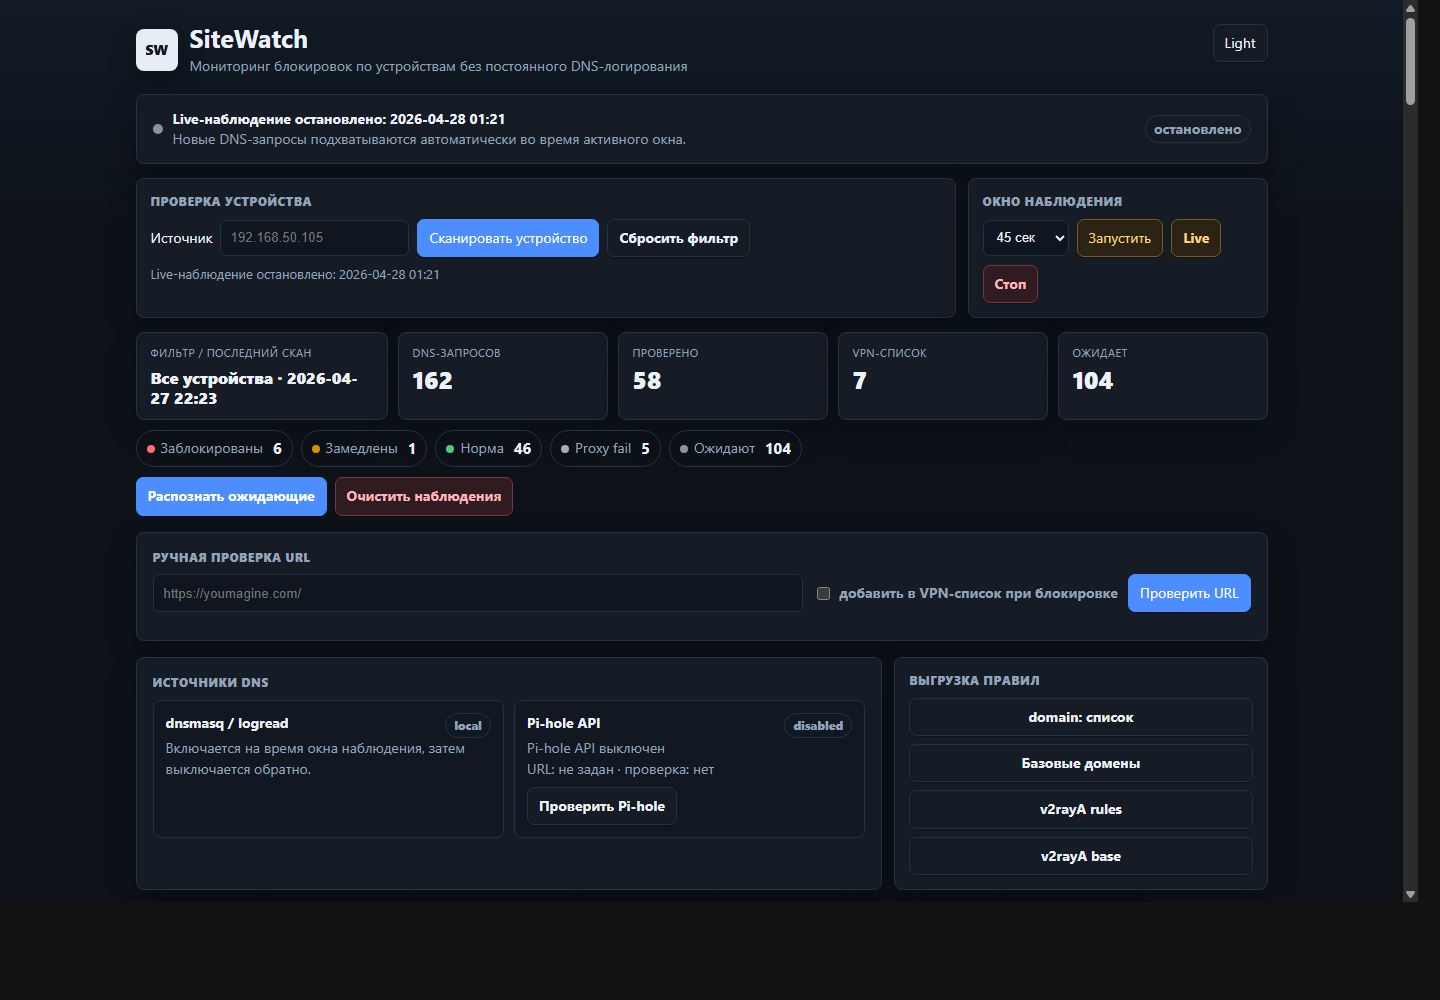
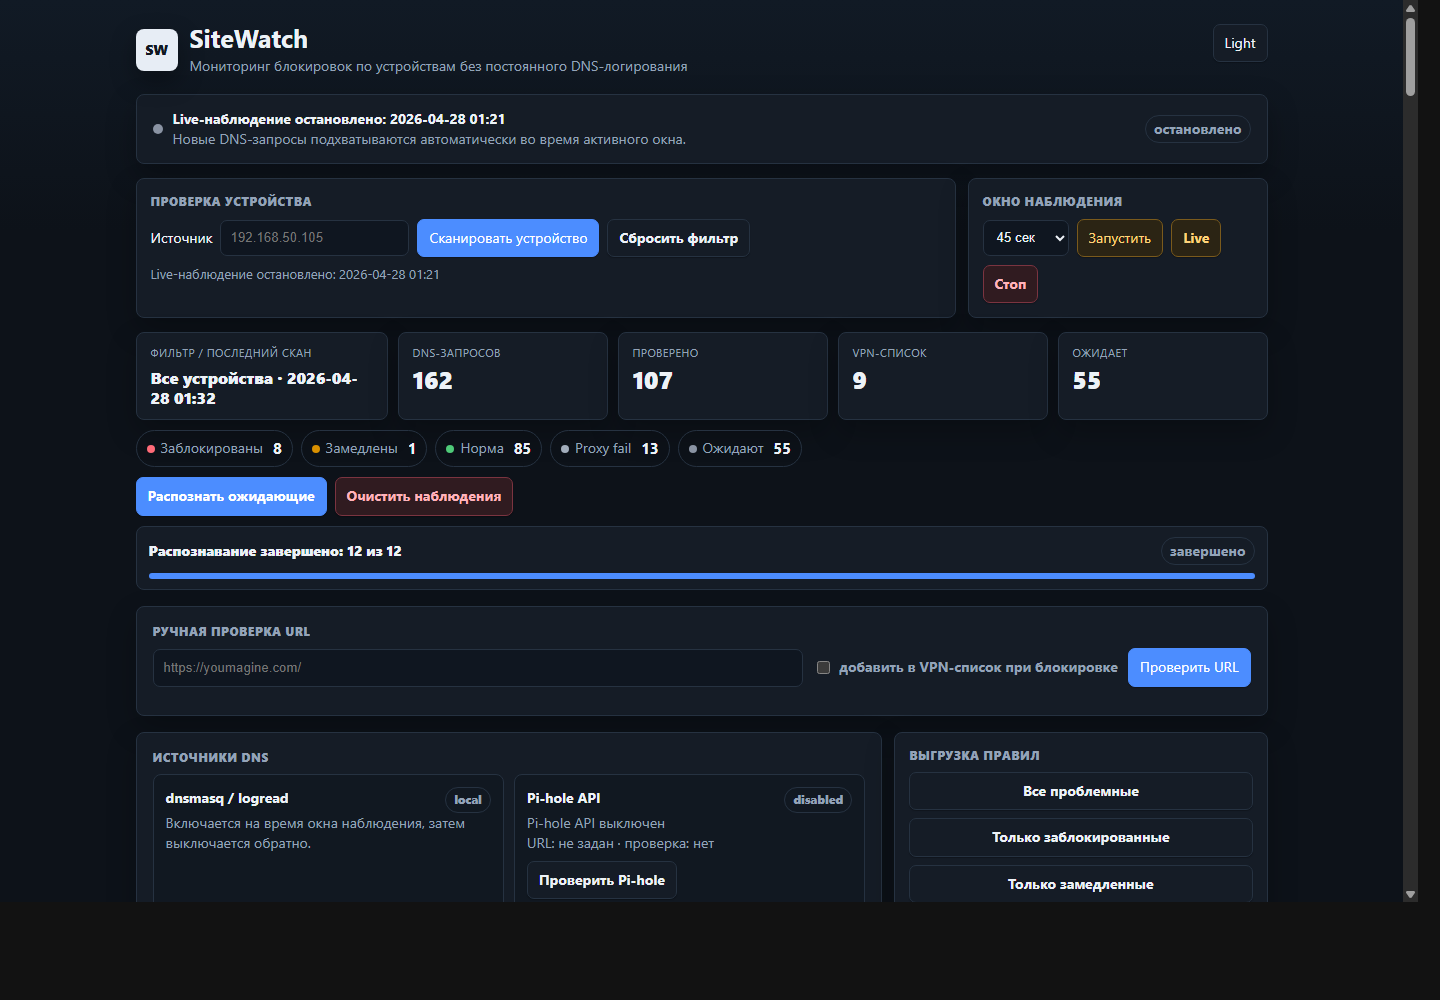
Show scan progress and DPI results

diff --git a/cmd/sitewatch/main.go b/cmd/sitewatch/main.go
@@ -26,6 +26,7 @@ type config struct {
 	Results         string
 	ProxyOut        string
 	Lock            string
+	ScanStatus      string
 	Proxy           string
 	Batch           int
 	Timeout         time.Duration
@@ -100,6 +101,7 @@ type resultEntry struct {
 	ProxyCode  string
 	ProxyTime  string
 	Scanned    int64
+	DPIStatus  string
 }
 
 func main() {
@@ -146,6 +148,7 @@ func loadConfig() config {
 		Results:         getStr(values, "SITEWATCH_RESULTS", "/etc/sitewatch/results.tsv"),
 		ProxyOut:        getStr(values, "SITEWATCH_PROXY_OUT", "/etc/sitewatch/proxy-domains.txt"),
 		Lock:            getStr(values, "SITEWATCH_LOCK", "/tmp/sitewatch-scan.lock"),
+		ScanStatus:      getStr(values, "SITEWATCH_SCAN_STATUS", "/tmp/sitewatch-scan.status"),
 		Proxy:           getStr(values, "SITEWATCH_PROXY", "socks5h://127.0.0.1:20170"),
 		Batch:           getInt(values, "SITEWATCH_BATCH", 12),
 		Timeout:         time.Duration(getInt(values, "SITEWATCH_TIMEOUT", 7)) * time.Second,
@@ -306,7 +309,14 @@ func cmdScan(cfg config) error {
 		domains = domains[:cfg.Batch]
 	}
 
-	for _, item := range domains {
+	writeScanStatus(cfg, "running", now, len(domains), 0, "")
+	if len(domains) == 0 {
+		writeScanStatus(cfg, "done", now, 0, 0, "")
+		return nil
+	}
+
+	for idx, item := range domains {
+		writeScanStatus(cfg, "running", now, len(domains), idx, item.Domain)
 		result, err := checkURL(cfg, "https://"+item.Domain+"/", false)
 		if err != nil {
 			continue
@@ -321,6 +331,7 @@ func cmdScan(cfg config) error {
 			ProxyCode:  result.Proxy.Code,
 			ProxyTime:  fmt.Sprintf("%.6f", result.Proxy.Time),
 			Scanned:    now,
+			DPIStatus:  dpiSummary(result.DPI),
 		}
 		maybeAddProxyDomain(cfg, result.Domain, result.Status)
 
@@ -339,14 +350,50 @@ func cmdScan(cfg config) error {
 						ProxyCode:  baseResult.Proxy.Code,
 						ProxyTime:  fmt.Sprintf("%.6f", baseResult.Proxy.Time),
 						Scanned:    now,
+						DPIStatus:  dpiSummary(baseResult.DPI),
 					}
 					maybeAddProxyDomain(cfg, baseResult.Domain, baseResult.Status)
 				}
 			}
 		}
+		writeScanStatus(cfg, "running", now, len(domains), idx+1, item.Domain)
 	}
 
-	return writeResults(cfg.Results, results)
+	if err := writeResults(cfg.Results, results); err != nil {
+		writeScanStatus(cfg, "error", now, len(domains), len(domains), "")
+		return err
+	}
+	writeScanStatus(cfg, "done", now, len(domains), len(domains), "")
+	return nil
+}
+
+func writeScanStatus(cfg config, state string, started int64, total int, done int, current string) {
+	if cfg.ScanStatus == "" {
+		return
+	}
+	_ = os.MkdirAll(filepath.Dir(cfg.ScanStatus), 0755)
+	tmp := cfg.ScanStatus + ".tmp"
+	line := fmt.Sprintf("%s\t%d\t%d\t%d\t%s\t%d\n", state, started, total, done, current, time.Now().Unix())
+	if err := os.WriteFile(tmp, []byte(line), 0644); err == nil {
+		_ = os.Rename(tmp, cfg.ScanStatus)
+	}
+}
+
+func dpiSummary(dpi dpiProbe) string {
+	switch {
+	case dpi.DNS.Status == "spoofed" || dpi.DNS.Status == "intercepted" || dpi.DNS.Status == "blocked":
+		return dpi.DNS.Status
+	case dpi.TLS13.Status != "" && dpi.TLS13.Status != "ok":
+		return "tls13_" + dpi.TLS13.Status
+	case dpi.TLS12.Status != "" && dpi.TLS12.Status != "ok":
+		return "tls12_" + dpi.TLS12.Status
+	case dpi.HTTP.Status != "" && dpi.HTTP.Status != "ok":
+		return "http_" + dpi.HTTP.Status
+	case dpi.DNS.Status != "":
+		return dpi.DNS.Status
+	default:
+		return "-"
+	}
 }
 
 func ensureDataFiles(cfg config) error {
@@ -949,6 +996,11 @@ func readResults(path string) (map[string]resultEntry, error) {
 			ProxyTime:  parts[7],
 			Scanned:    parseInt64(parts[8]),
 		}
+		if len(parts) >= 10 {
+			item := out[parts[0]]
+			item.DPIStatus = parts[9]
+			out[parts[0]] = item
+		}
 	}
 	return out, scanner.Err()
 }
@@ -975,8 +1027,8 @@ func writeResults(path string, results map[string]resultEntry) error {
 	})
 	writer := bufio.NewWriter(file)
 	for _, item := range items {
-		fmt.Fprintf(writer, "%s\t%s\t%d\t%s\t%s\t%s\t%s\t%s\t%d\n",
-			item.Domain, item.Source, item.Count, item.Status, item.DirectCode, item.DirectTime, item.ProxyCode, item.ProxyTime, item.Scanned)
+		fmt.Fprintf(writer, "%s\t%s\t%d\t%s\t%s\t%s\t%s\t%s\t%d\t%s\n",
+			item.Domain, item.Source, item.Count, item.Status, item.DirectCode, item.DirectTime, item.ProxyCode, item.ProxyTime, item.Scanned, item.DPIStatus)
 	}
 	if err := writer.Flush(); err != nil {
 		file.Close()

diff --git a/README.md b/README.md
@@ -328,12 +328,16 @@ domain:youmagine.com
 
 ```text
 /?action=export
+/?action=export_blocked
+/?action=export_slow
 /?action=export_base
 /?action=export_v2raya
+/?action=export_v2raya_blocked
+/?action=export_v2raya_slow
 /?action=export_v2raya_base
 ```
 
-`export_v2raya` отдаёт строки для вставки в веб-интерфейс v2rayA:
+`export` отдаёт все проблемные домены (`blocked` + `slow`), `export_blocked` только заблокированные, `export_slow` только замедленные. `export_v2raya*` отдаёт строки для вставки в веб-интерфейс v2rayA:
 
 ```text
 domain(domain: yummyani.me) -> proxy
